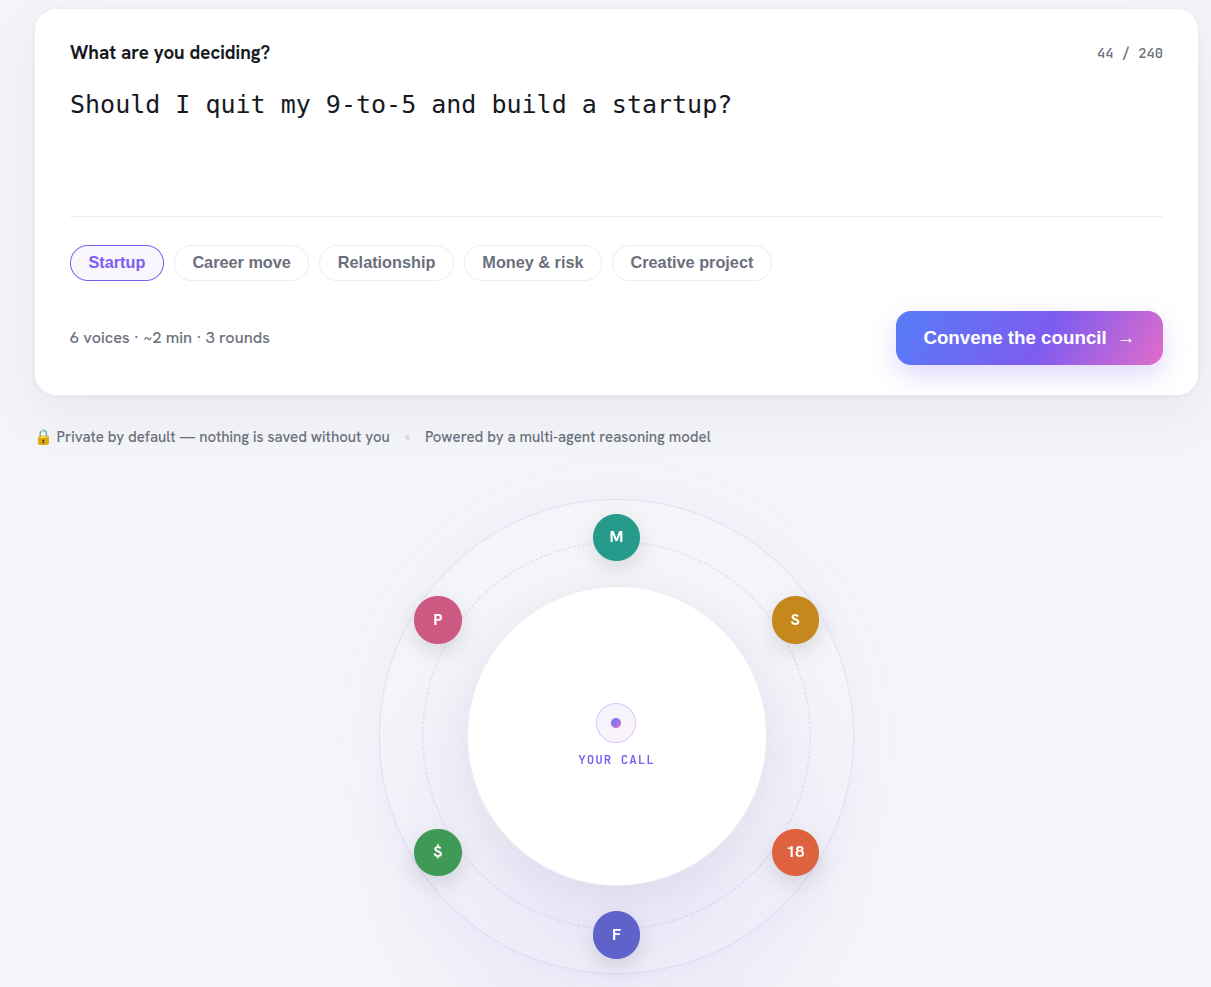
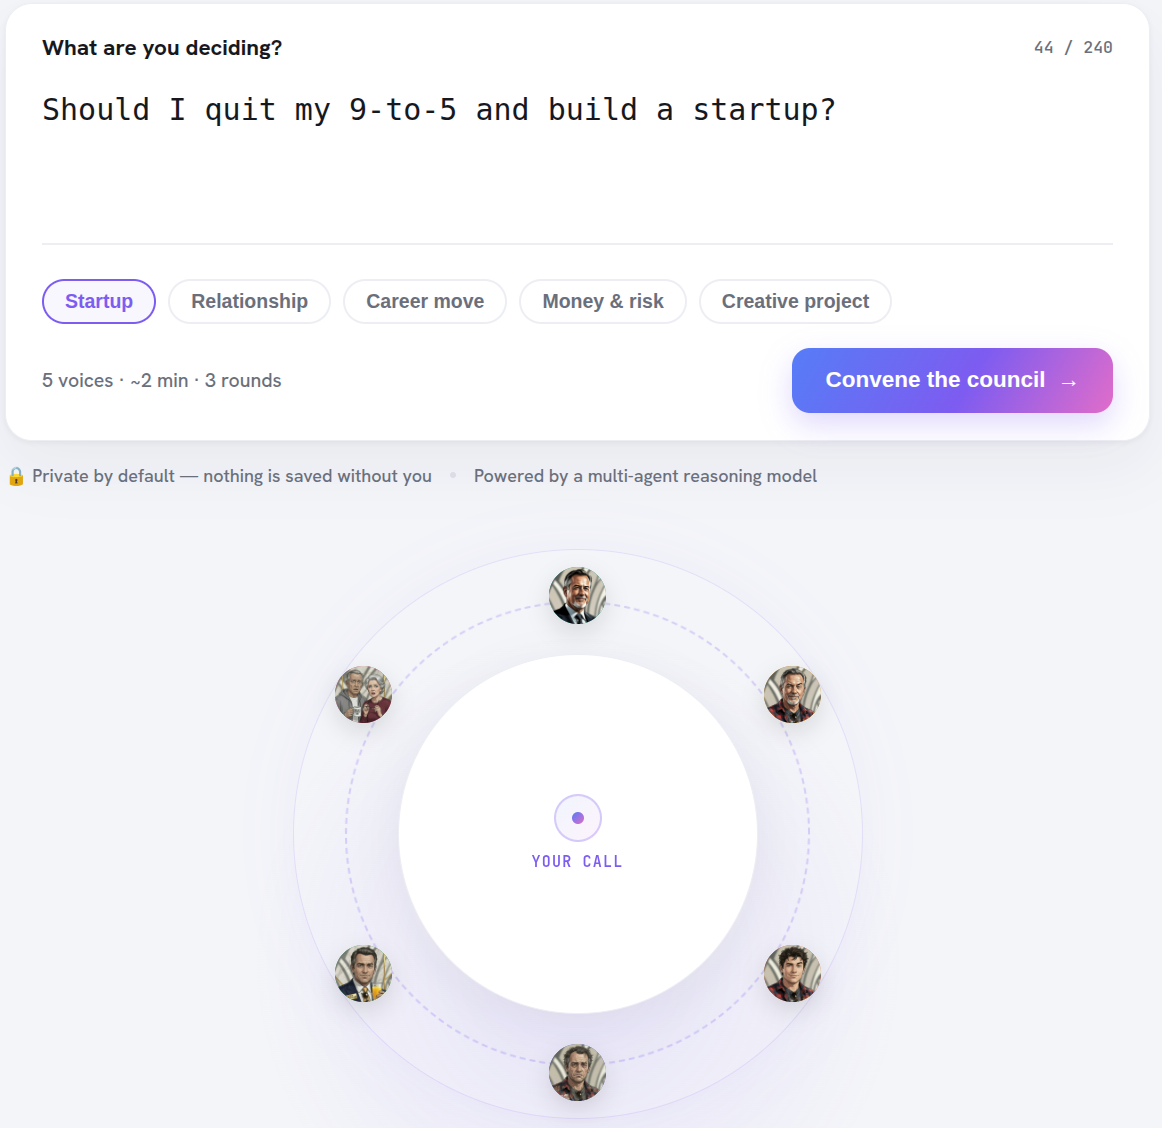
pres

diff --git a/presentation/index.html b/presentation/index.html
@@ -93,8 +93,8 @@
     .eyebrow {
       font-family: var(--display);
       text-transform: uppercase;
-      letter-spacing: .22em;
-      font-size: .8rem;
+      letter-spacing: .15em;
+      font-size: 1.2rem;
       font-weight: 600;
       color: var(--purple-ink);
       margin-bottom: 1.1rem;
@@ -565,8 +565,7 @@
 
     <!-- SLIDE 2: MEET ALEX -->
     <section class="slide">
-      <div class="eyebrow">Every big Decision starts with a question</div>
-      <!-- <h2></h2> -->
+      <h2>Every big Decision starts with a question</h2>
       <div class="card tint alex-card" style="margin-top:1.5rem">
         <img src="alex_avatar.png" alt="Alex" class="alex-img" />
         <div>
@@ -612,6 +611,9 @@
           <p>Synthesizes opposing viewpoints into one actionable recommendation and immediate next steps.</p>
         </div>
       </div>
+      <div style="margin-top: 2rem; text-align: center;">
+        <img src="image.png" alt="How it works UI" style="max-width: 100%; border-radius: 12px; box-shadow: 0 10px 30px rgba(0,0,0,0.15); max-height: 400px; object-fit: contain;" />
+      </div>
     </section>
 
     <!-- SLIDE 6: TECH & WORKFLOW -->
@@ -620,24 +622,24 @@
       <h2>Built on Google AI & Agentic Intelligence</h2>
       <div class="grid g2" style="margin-top:1.6rem; align-items:center;">
         <!-- Left: Google Tech Stack -->
-        <div style="display:flex; flex-direction:column; gap:14px;">
-          <div class="card">
-            <div class="k">Reasoning Engine</div>
-            <h3>Gemini 3.5 Flash</h3>
-            <p>Native JSON-schema output for valid, parseable multi-agent debates and structured verdicts. Hosted on
-              Vertex AI.</p>
+        <div style="display:flex; flex-direction:column; gap:14px; justify-content:center;">
+          <div class="card" style="padding: 1rem 1.5rem;">
+            <h3 style="margin: 0; font-size: 1.3rem;">Cloud Run & GenAI JS SDK</h3>
           </div>
-          <div class="card">
-            <div class="k">Orchestration</div>
-            <h3>Agent Development Kit (ADK)</h3>
-            <p>ADK manages the multi-agent council securely, handling session registration, state persistence, and
-              prompt routing.</p>
+          <div class="card" style="padding: 1rem 1.5rem;">
+            <h3 style="margin: 0; font-size: 1.3rem;">Agent Development Kit (ADK)</h3>
           </div>
-          <div class="card">
-            <div class="k">Delivery</div>
-            <h3>Cloud Run & GenAI JS SDK</h3>
-            <p>Serverless container infrastructure with low-latency client streaming for real-time council deliberation.
-            </p>
+          <div class="card" style="padding: 1rem 1.5rem;">
+            <h3 style="margin: 0; font-size: 1.3rem;">Gemini 3.5 Flash</h3>
+          </div>
+          <div class="card" style="padding: 1rem 1.5rem;">
+            <h3 style="margin: 0; font-size: 1.3rem;">Antigravity</h3>
+          </div>
+          <div class="card" style="padding: 1rem 1.5rem;">
+            <h3 style="margin: 0; font-size: 1.3rem;">NanoBanana</h3>
+          </div>
+          <div class="card" style="padding: 1rem 1.5rem;">
+            <h3 style="margin: 0; font-size: 1.3rem;">Gemini 3.1 TTS</h3>
           </div>
         </div>
 
@@ -700,8 +702,8 @@
           <div class="name">Padmanabh</div><a href="https://github.com/padmanabh-g" target="_blank">@padmanabh-g</a>
         </div>
       </div>
-      <p class="lead" style="margin-top:2.6rem">Thank you — now put your hardest decision in front of <span
-          class="grad">every version of you.</span></p>
+      <p class="lead" style="margin-top:2.6rem">Now put your hardest decision in front of <span class="grad">every
+          version of you.</span></p>
     </section>
 
   </div>